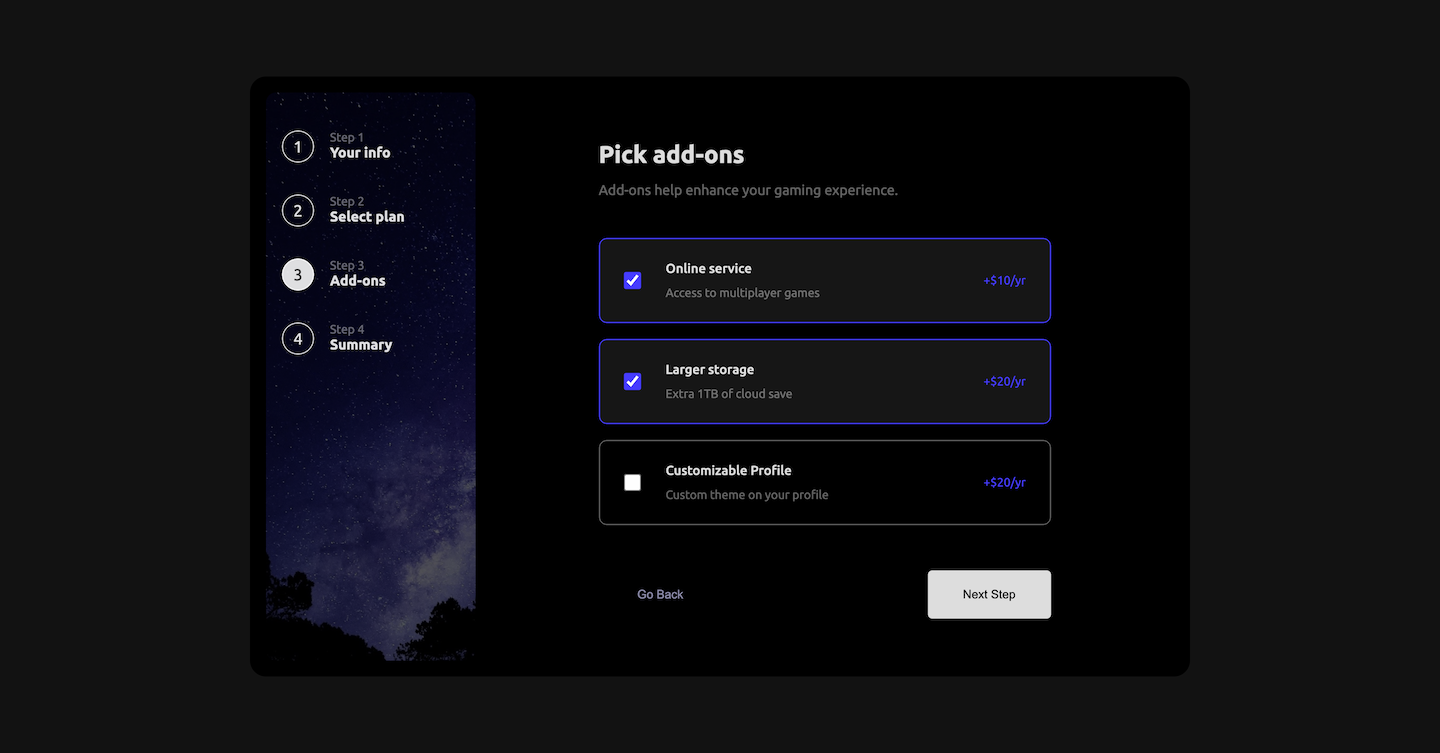
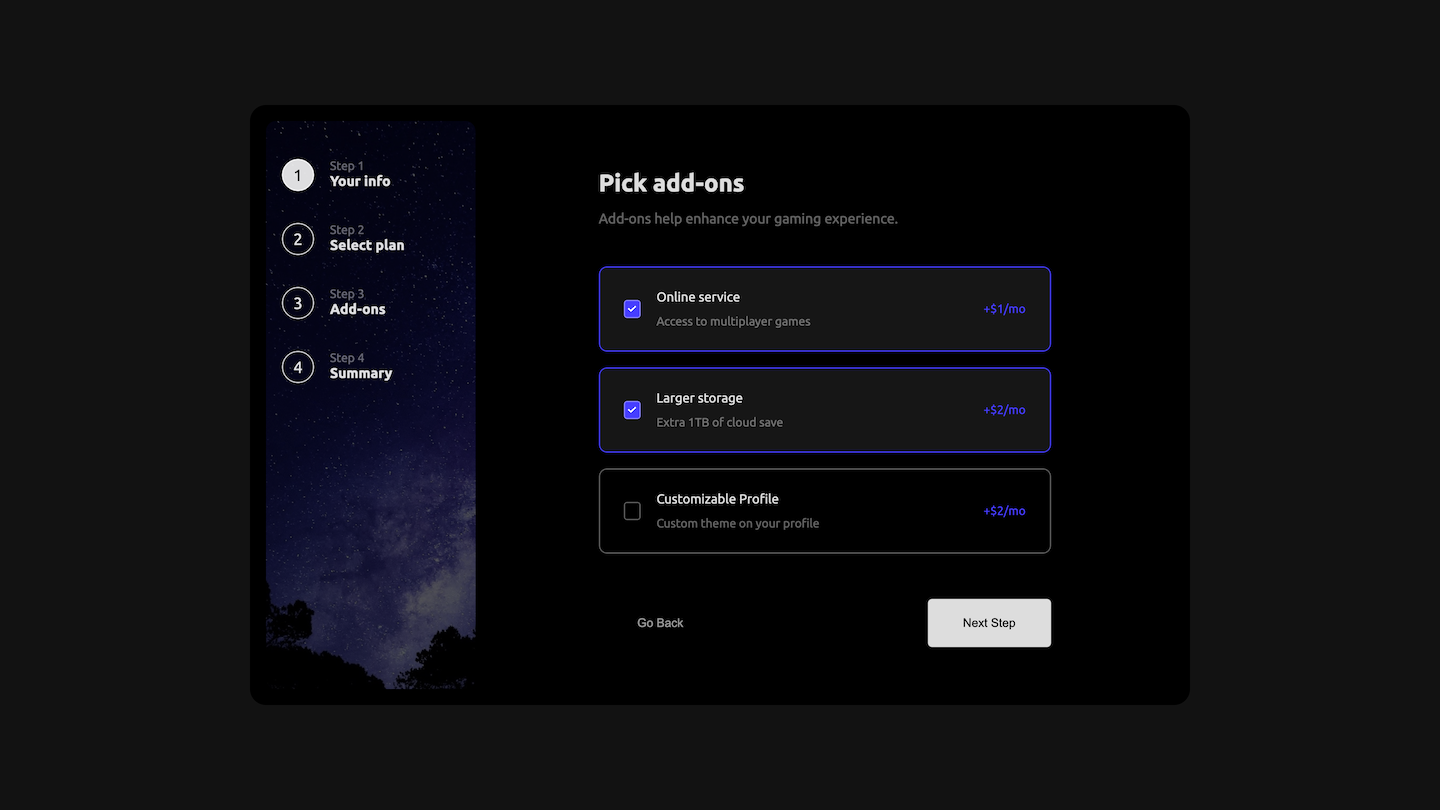
updated checkbox style
updated auto-completed text input box style

diff --git a/dist/style.css b/dist/style.css
@@ -1,1 +1,1 @@
-@import"https://fonts.googleapis.com/css2?family=Ubuntu:wght@400;500;700&display=swap";h2{font-size:1.125rem;color:var(--h2-color)}@media(min-width: 48rem){h2{font-size:1.5rem}}h3{font-size:0.875rem;font-weight:400;color:var(--h3-color)}h4{font-size:0.8125rem;font-weight:500;color:var(--h4-color)}p{font-size:0.75rem;color:var(--p-color)}.marineBlue{color:var(--marineblue-color)}.purplishBlue{color:var(--purplishblue-color)}.bold{font-weight:700}.medium{font-weight:500}.underline{text-decoration:underline}.underline:hover,.underline:focus{cursor:pointer;color:var(--underline-hover-color);transition-duration:.2s;transition-timing-function:linear}.offscreen{position:absolute;left:-10000px}html{box-sizing:border-box;font-size:100%}*,*::before,*::after{padding:0;margin:0;box-sizing:inherit}image{display:block;width:100%;height:auto}body{height:max(37.5rem,100vh);font:1rem "Ubuntu",sans-serif;background-color:var(--bgcolor);display:flex;flex-direction:column}@media(min-width: 48rem){body{align-items:center;justify-content:center}}button{width:6.0625rem;height:2.5rem;border:1px solid rgba(0,0,0,0);border-radius:0.25rem;color:var(--btn-color);font-size:0.75rem}@media(min-width: 48rem){button{width:7.6875rem;height:3rem}}button:hover,button:focus{transition-duration:.2s;transition-timing-function:linear;cursor:pointer}button[data-confirm]{background-color:var(--confirm-btn-bgcolor);justify-self:end}button[data-confirm]:hover,button[data-confirm]:focus{opacity:.7}button[data-previous]{background-color:rgba(0,0,0,0);color:var(--previous-btn-color)}button[data-previous]:hover,button[data-previous]:focus{color:var(--previous-btn-hover-color)}button[data-next]{background-color:var(--next-btn-bgcolor);grid-column:2/3;justify-self:end}button[data-next]:hover,button[data-next]:focus{background-color:var(--next-btn-hover-bgcolor)}fieldset{border:0}input[type=checkbox]{accent-color:var(--checkbox-accent-color);width:1.25rem;height:1.25rem}input[type=checkbox]:hover,[type=checkbox]:focus{cursor:pointer}hr{border:none;height:0.03125rem;background-color:var(--hr-bgcolor)}:root{--bgcolor: hsl(217, 100%, 97%);--btn-color: hsl(0, 0%, 100%);--previous-btn-color: hsl(231, 11%, 63%);--previous-btn-hover-color: hsl(213, 96%, 18%);--confirm-btn-bgcolor: hsl(243, 100%, 62%);--next-btn-bgcolor: hsl(213, 96%, 18%);--next-btn-hover-bgcolor: hsl(213, 96%, 28%);--checkbox-accent-color: hsl(243, 100%, 62%);--hr-bgcolor: hsl(229, 24%, 87%);--h2-color: hsl(213, 96%, 18%);--h3-color: hsl(231, 11%, 63%);--h4-color: hsl(213, 96%, 18%);--h5-color: hsl(213, 96%, 18%);--p-color: hsl(231, 11%, 63%);--input-bgcolor: hsl(0, 0%, 100%);--input-color: hsl(0, 0%, 0%);--placeholder-color: hsl(231, 11%, 63%);--underline-hover-color: hsl(243, 100%, 62%);--border-color: hsl(229, 24%, 87%);--input-border-color: hsl(229, 24%, 87%);--border-hover-color: hsl(243, 100%, 62%);--border-selected-color: hsl(243, 100%, 62%);--selected-bgcolor: hsla(243, 100%, 62%, 0.02);--sub-btn-bgcolor: hsl(213, 96%, 18%);--sub-btn-color: hsl(0, 0%, 100%);--sub-text-color: hsl(213, 96%, 18%);--sub-bgcolor: hsla(218, 10%, 77%, 0.1);--sum-bgcolor: hsla(218, 10%, 77%, 0.1);--aside-mask-color: hsla(0, 0%, 0%, 0);--aside-roundspan-color: hsl(0, 0%, 100%);--aside-roundspan-border-color: hsl(0, 0%, 100%);--aside-roundspan-highlight-color: hsl(0, 0%, 0%);--aside-roundspan-highlight-bg-color: hsl(206, 94%, 87%);--aside-h3-color: hsl(0, 0%, 100%);--main-bgcolor: hsl(0, 0%, 100%);--card-body-bgcolor: hsl(231, 100%, 99%);--card-boxshadow-color: hsla(0, 0%, 27%, 0.2);--card-bottom-bgcolor: hsl(0, 0%, 100%);--marineblue-color: hsl(213, 96%, 18%);--purplishblue-color: hsl(243, 100%, 62%);--aside-mobile-bg-image: url("../images/bg-sidebar-mobile.svg");--aside-desktop-bg-image: url("../images/bg-sidebar-desktop.svg")}@media(prefers-color-scheme: dark){:root{--bgcolor: #121212;--card-body-bgcolor: hsl(0, 0%, 0%);--card-bottom-bgcolor: hsl(0, 0%, 0%);--btn-color: hsl(0, 0%, 0%);--previous-btn-color: hsla(0, 0%, 100%, 0.6);--previous-btn-hover-color: hsl(243, 100%, 62%);--next-btn-bgcolor: hsla(0, 0%, 100%, 0.87);--next-btn-hover-bgcolor: hsl(243, 100%, 62%);--hr-bgcolor: hsla(0, 0%, 100%, 0.15);--h2-color: hsla(0, 0%, 100%, 0.87);--h3-color: hsla(0, 0%, 100%, 0.38);--h4-color: hsla(0, 0%, 100%, 0.87);--h5-color: hsla(0, 0%, 100%, 0.87);--p-color: hsla(0, 0%, 100%, 0.38);--border-color: hsla(0, 0%, 100%, 0.38);--input-border-color: hsla(229, 24%, 87%, 0);--input-bgcolor: hsla(218, 10%, 77%, 0.1);--input-color: hsla(0, 0%, 100%, 0.87);--placeholder-color: hsla(0, 0%, 100%, 0.38);--selected-bgcolor: #161616;--sub-btn-bgcolor: hsl(243, 100%, 62%);--sub-btn-color: hsla(0, 0%, 100%, 0.87);--sub-text-color: hsla(0, 0%, 100%, 0.87);--aside-mask-color: hsla(0, 0%, 0%, 0.66);--aside-roundspan-color: hsl(0, 0%, 100%, 0.87);--aside-roundspan-border-color: hsl(0, 0%, 100%, 0.87);--aside-roundspan-highlight-color: hsla(0, 0%, 0%, 0.87);--aside-roundspan-highlight-bg-color: hsla(0, 0%, 100%, 0.87);--aside-h3-color: hsla(0, 0%, 100%, 0.87);--main-bgcolor: hsl(0, 0%, 0%);--marineblue-color: hsla(0, 0%, 100%, 0.87);--aside-mobile-bg-image: url("../images/bg-sidebar-mobile-dark.jpg");--aside-desktop-bg-image: url("../images/bg-sidebar-desktop-dark.jpg")}}.aside{height:10.6875rem;background-image:var(--aside-mobile-bg-image);background-repeat:no-repeat;background-size:cover;background-position:center}@media(min-width: 48rem){.aside{border-radius:0.625rem;height:100%;width:30%;background-image:var(--aside-desktop-bg-image)}}.aside__body{height:100%;display:flex;justify-content:center;gap:1rem;padding-top:2rem;padding-bottom:6.625rem;background-color:var(--aside-mask-color)}@media(min-width: 48rem){.aside__body{flex-direction:column;gap:2rem;justify-content:flex-start;padding-top:2.375rem;padding-inline:1rem}}.aside__span{display:block;background-color:rgba(0,0,0,0);width:2rem;height:2rem;border:0.0625rem solid var(--aside-roundspan-border-color);color:var(--aside-roundspan-color);border-radius:50%;display:flex;justify-content:center;align-items:center}.aside__section{position:absolute;left:-625rem}@media(min-width: 48rem){.aside__section{position:static}}@media(min-width: 48rem){.aside__step{display:flex;gap:1rem}}.aside__h3{color:var(--aside-h3-color);font-weight:700}.highlight{background-color:var(--aside-roundspan-highlight-bg-color);color:var(--aside-roundspan-highlight-color)}.card{width:100%;height:100%;position:absolute;transform:translateX(0);opacity:0}@media(min-width: 48rem){.card{display:flex;flex-direction:column;justify-content:space-between;width:28.25rem;left:0;right:0;margin-inline:auto}}.card__body{width:clamp(18.25rem,100% - 1.5rem,28.125rem);position:absolute;top:6rem;left:0;right:0;margin-inline:auto;padding-top:2.25rem;padding-bottom:2rem;padding-inline:1.5rem;background-color:var(--card-body-bgcolor);border-radius:0.5rem;box-shadow:0 0.3125rem 0.625rem var(--card-boxshadow-color);display:flex;flex-direction:column;gap:1.5rem}@media(min-width: 48rem){.card__body{position:static;width:100%;background-color:rgba(0,0,0,0);box-shadow:none;padding:0;gap:1.625rem}}.card__bottom{width:100%;height:4.625rem;position:absolute;bottom:0;padding:1rem;background-color:var(--card-bottom-bgcolor);display:grid;grid-template-columns:1fr 1fr}@media(min-width: 48rem){.card__bottom{position:static;padding:0}}.card__legend{display:flex;flex-direction:column;gap:0.875rem}@media(min-width: 48rem){.card__legend{margin-bottom:0.875rem}}.card__total{display:flex;justify-content:space-between;align-items:center;padding-inline:0.75rem}@media(min-width: 48rem){.card__total{padding-inline:1.125rem}}.card__content{display:flex;flex-direction:column;gap:0.625rem}@media(min-width: 48rem){.card__content{gap:1.5rem}}.card.active{z-index:1;animation:blur 700ms linear forwards}@keyframes blur{0%{opacity:0}100%{opacity:1}}.content__choice{display:flex;flex-direction:column;gap:0.25rem}@media(min-width: 48rem){.content__choice{gap:0.75rem}}.content__input{border:0.0625rem solid var(--input-border-color);border-radius:0.25rem;padding:0.9375rem;background-color:var(--input-bgcolor);color:var(--input-color)}.content__input::-moz-placeholder{color:var(--placeholder-color)}.content__input::placeholder{color:var(--placeholder-color)}.content__label{display:flex;justify-content:space-between;font-size:0.625rem}@media(min-width: 48rem){.content__label{font-size:0.75rem}}.content__span{font-size:0.625rem;font-weight:400;color:var(--h5-color)}@media(min-width: 48rem){.content__span{font-size:0.75rem}}@media(min-width: 48rem){.plan{flex-direction:row;justify-content:space-between}}.plan__choice{border:0.0625rem solid var(--border-color);border-radius:0.5rem;padding:1rem;display:flex;flex-direction:row;gap:0.9375rem}@media(min-width: 48rem){.plan__choice{width:8.5rem;height:10rem;padding:1.25rem 1.125rem;flex-direction:column;justify-content:space-between}}.plan__choice:hover,.plan__choice:focus{cursor:pointer;border-color:var(--border-hover-color);transition-duration:.2s;transition-timing-function:linear}.plan__figcaption{display:flex;flex-direction:column;justify-content:center;gap:0.375rem}.selected{border-color:var(--border-selected-color);background-color:var(--selected-bgcolor)}.subscription{background-color:var(--sub-bgcolor);padding-block:0.8125rem;padding-inline:3.25rem;border-radius:0.5rem;display:flex;justify-content:space-between;align-items:center}@media(min-width: 48rem){.subscription{justify-content:center;gap:1.5rem}}.subscription__button{width:2.375rem;height:1.25rem;padding-inline:0.25rem;border-radius:0.9375rem;background-color:var(--sub-btn-bgcolor);display:flex;align-items:center;justify-content:flex-end}.subscription__span{display:block;background-color:var(--sub-btn-color);border-radius:50%;width:0.75rem;height:0.75rem}.subscription__span:hover,.subscription__span:focus{cursor:pointer;transform:scale(1.2) translateX(0.0625rem);transition-duration:.2s;transition-timing-function:linear}.subscribed{color:var(--sub-text-color)}.moved{justify-content:flex-start}@media(min-width: 48rem){.addon{gap:1rem}}.addon__item{border:0.0625rem solid var(--border-color);border-radius:0.5rem;padding:1rem;display:flex;flex-direction:row;align-items:center;gap:0.9375rem}@media(min-width: 48rem){.addon__item{padding:1.375rem 1.5rem;gap:1.5rem}}.addon__item:hover,.addon__item:focus,.addon__label:hover,.addon__label:focus{cursor:pointer;border-color:var(--border-hover-color);transition-duration:.2s;transition-timing-function:linear}.addon__label{width:100%;display:flex;justify-content:space-between;align-items:center}.addon__wrapper{display:flex;flex-direction:column}@media(min-width: 48rem){.addon__wrapper{gap:0.625rem}}.picked{border-color:var(--border-selected-color);background-color:var(--selected-bgcolor)}.main{height:inherit}@media(min-width: 48rem){.main{width:min(100% - 1rem,58.75rem);height:37.5rem;background-color:var(--main-bgcolor);border-radius:1rem;display:flex;padding:1rem}}.main__section{position:absolute;bottom:0;width:100%;height:100%}@media(min-width: 48rem){.main__section{position:static;padding-top:3rem;padding-bottom:1rem}}.main__form{height:inherit;position:relative;overflow:hidden}.summary{background-color:var(--sum-bgcolor);border-radius:0.5rem;padding-inline:0.9375rem;padding-block:1.25rem;display:flex;flex-direction:column;gap:0.875rem}@media(min-width: 48rem){.summary{padding:1.375rem 1.5rem;gap:1.5rem}}.summary__plan{display:flex;align-items:center;justify-content:space-between}.summary__plan__info{display:flex;flex-direction:column;gap:0.5rem}.summary__addons{display:flex;flex-direction:column;gap:1.25rem;font-size:0.75rem}.summary__addons__item{display:flex;justify-content:space-between;align-items:center}@media(min-width: 48rem){#total{font-size:1.125rem}}.thanksPage{align-items:center;text-align:center;padding-block:5rem;gap:0}@media(min-width: 48rem){.thanksPage{width:26.875rem;height:100%;justify-content:center}}.thanksPage__image{width:2.5rem}@media(min-width: 48rem){.thanksPage__image{width:5rem}}.thanksPage__h2{padding-block:1.625rem 1.125rem}@media(min-width: 48rem){.thanksPage__h2{line-height:1.625rem;padding-block:2rem 1.25rem}}.thanksPage__p{line-height:1.5rem;font-size:0.875rem}/*# sourceMappingURL=style.css.map */
+@import"https://fonts.googleapis.com/css2?family=Ubuntu:wght@400;500;700&display=swap";h2{font-size:1.125rem;color:var(--h2-color)}@media(min-width: 48rem){h2{font-size:1.5rem}}h3{font-size:0.875rem;font-weight:400;color:var(--h3-color)}h4{font-size:0.8125rem;font-weight:500;color:var(--h4-color)}p{font-size:0.75rem;color:var(--p-color)}.marineBlue{color:var(--marineblue-color)}.purplishBlue{color:var(--purplishblue-color)}.bold{font-weight:700}.medium{font-weight:500}.underline{text-decoration:underline}.underline:hover,.underline:focus{cursor:pointer;color:var(--underline-hover-color);transition-duration:.2s;transition-timing-function:linear}.offscreen{position:absolute;left:-10000px}html{box-sizing:border-box;font-size:100%}*,*::before,*::after{padding:0;margin:0;box-sizing:inherit}image{display:block;width:100%;height:auto}body{height:max(37.5rem,100vh);font:1rem "Ubuntu",sans-serif;background-color:var(--bgcolor);display:flex;flex-direction:column}@media(min-width: 48rem){body{align-items:center;justify-content:center}}button{width:6.0625rem;height:2.5rem;border:1px solid rgba(0,0,0,0);border-radius:0.25rem;color:var(--btn-color);font-size:0.75rem}@media(min-width: 48rem){button{width:7.6875rem;height:3rem}}button:hover,button:focus{transition-duration:.2s;transition-timing-function:linear;cursor:pointer}button[data-confirm]{background-color:var(--confirm-btn-bgcolor);justify-self:end}button[data-confirm]:hover,button[data-confirm]:focus{opacity:.7}button[data-previous]{background-color:rgba(0,0,0,0);color:var(--previous-btn-color)}button[data-previous]:hover,button[data-previous]:focus{color:var(--previous-btn-hover-color)}button[data-next]{background-color:var(--next-btn-bgcolor);grid-column:2/3;justify-self:end}button[data-next]:hover,button[data-next]:focus{background-color:var(--next-btn-hover-bgcolor)}fieldset{border:0}hr{border:none;height:0.03125rem;background-color:var(--hr-bgcolor)}:root{--bgcolor: hsl(217, 100%, 97%);--btn-color: hsl(0, 0%, 100%);--previous-btn-color: hsl(231, 11%, 63%);--previous-btn-hover-color: hsl(213, 96%, 18%);--confirm-btn-bgcolor: hsl(243, 100%, 62%);--next-btn-bgcolor: hsl(213, 96%, 18%);--next-btn-hover-bgcolor: hsl(213, 96%, 28%);--checkbox-bgcolor: hsla(243, 100%, 62%, 0);--checkbox-checked-bgcolor: hsl(243, 100%, 62%);--hr-bgcolor: hsl(229, 24%, 87%);--h2-color: hsl(213, 96%, 18%);--h3-color: hsl(231, 11%, 63%);--h4-color: hsl(213, 96%, 18%);--h5-color: hsl(213, 96%, 18%);--p-color: hsl(231, 11%, 63%);--input-bgcolor: hsl(0, 0%, 100%);--input-color: hsl(0, 0%, 0%);--placeholder-color: hsl(231, 11%, 63%);--underline-hover-color: hsl(243, 100%, 62%);--border-color: hsl(229, 24%, 87%);--input-border-color: hsl(229, 24%, 87%);--border-hover-color: hsl(243, 100%, 62%);--border-selected-color: hsl(243, 100%, 62%);--selected-bgcolor: hsla(243, 100%, 62%, 0.02);--sub-btn-bgcolor: hsl(213, 96%, 18%);--sub-btn-color: hsl(0, 0%, 100%);--sub-text-color: hsl(213, 96%, 18%);--sub-bgcolor: hsla(218, 10%, 77%, 0.1);--sum-bgcolor: hsla(218, 10%, 77%, 0.1);--aside-mask-color: hsla(0, 0%, 0%, 0);--aside-roundspan-color: hsl(0, 0%, 100%);--aside-roundspan-border-color: hsl(0, 0%, 100%);--aside-roundspan-highlight-color: hsl(0, 0%, 0%);--aside-roundspan-highlight-bg-color: hsl(206, 94%, 87%);--aside-h3-color: hsl(0, 0%, 100%);--main-bgcolor: hsl(0, 0%, 100%);--card-body-bgcolor: hsl(231, 100%, 99%);--card-boxshadow-color: hsla(0, 0%, 27%, 0.2);--card-bottom-bgcolor: hsl(0, 0%, 100%);--marineblue-color: hsl(213, 96%, 18%);--purplishblue-color: hsl(243, 100%, 62%);--auto-completed-text-color: hsl(222, 100%, 7%);--auto-completed-box-shadow-color: hsl(0, 0%, 100%, 0.87);--aside-mobile-bg-image: url("../images/bg-sidebar-mobile.svg");--aside-desktop-bg-image: url("../images/bg-sidebar-desktop.svg");--checkbox-gb-image: url("../images/icon-checkmark.svg")}@media(prefers-color-scheme: dark){:root{--bgcolor: #121212;--card-body-bgcolor: hsl(0, 0%, 0%);--card-bottom-bgcolor: hsl(0, 0%, 0%);--btn-color: hsl(0, 0%, 0%);--previous-btn-color: hsla(0, 0%, 100%, 0.6);--previous-btn-hover-color: hsl(243, 100%, 62%);--next-btn-bgcolor: hsla(0, 0%, 100%, 0.87);--next-btn-hover-bgcolor: hsl(243, 100%, 62%);--hr-bgcolor: hsla(0, 0%, 100%, 0.15);--h2-color: hsla(0, 0%, 100%, 0.87);--h3-color: hsla(0, 0%, 100%, 0.38);--h4-color: hsla(0, 0%, 100%, 0.87);--h5-color: hsla(0, 0%, 100%, 0.87);--p-color: hsla(0, 0%, 100%, 0.38);--border-color: hsla(0, 0%, 100%, 0.38);--input-border-color: hsla(229, 24%, 87%, 0);--input-bgcolor: hsla(218, 10%, 77%, 0.1);--input-color: hsla(0, 0%, 100%, 0.87);--placeholder-color: hsla(0, 0%, 100%, 0.38);--selected-bgcolor: #161616;--sub-btn-bgcolor: hsl(243, 100%, 62%);--sub-btn-color: hsla(0, 0%, 100%, 0.87);--sub-text-color: hsla(0, 0%, 100%, 0.87);--aside-mask-color: hsla(0, 0%, 0%, 0.66);--aside-roundspan-color: hsl(0, 0%, 100%, 0.87);--aside-roundspan-border-color: hsl(0, 0%, 100%, 0.87);--aside-roundspan-highlight-color: hsla(0, 0%, 0%, 0.87);--aside-roundspan-highlight-bg-color: hsla(0, 0%, 100%, 0.87);--aside-h3-color: hsla(0, 0%, 100%, 0.87);--main-bgcolor: hsl(0, 0%, 0%);--marineblue-color: hsla(0, 0%, 100%, 0.87);--auto-completed-text-color: hsl(0, 0%, 100%, 0.87);--auto-completed-box-shadow-color: hsl(222, 100%, 7%);--aside-mobile-bg-image: url("../images/bg-sidebar-mobile-dark.jpg");--aside-desktop-bg-image: url("../images/bg-sidebar-desktop-dark.jpg")}}.aside{height:10.6875rem;background-image:var(--aside-mobile-bg-image);background-repeat:no-repeat;background-size:cover;background-position:center}@media(min-width: 48rem){.aside{border-radius:0.625rem;height:100%;width:30%;background-image:var(--aside-desktop-bg-image)}}.aside__body{height:100%;display:flex;justify-content:center;gap:1rem;padding-top:2rem;padding-bottom:6.625rem;background-color:var(--aside-mask-color)}@media(min-width: 48rem){.aside__body{flex-direction:column;gap:2rem;justify-content:flex-start;padding-top:2.375rem;padding-inline:1rem}}.aside__span{display:block;background-color:rgba(0,0,0,0);width:2rem;height:2rem;border:0.0625rem solid var(--aside-roundspan-border-color);color:var(--aside-roundspan-color);border-radius:50%;display:flex;justify-content:center;align-items:center}.aside__section{position:absolute;left:-625rem}@media(min-width: 48rem){.aside__section{position:static}}@media(min-width: 48rem){.aside__step{display:flex;gap:1rem}}.aside__h3{color:var(--aside-h3-color);font-weight:700}.highlight{background-color:var(--aside-roundspan-highlight-bg-color);color:var(--aside-roundspan-highlight-color)}.card{width:100%;height:100%;position:absolute;transform:translateX(0);opacity:0}@media(min-width: 48rem){.card{display:flex;flex-direction:column;justify-content:space-between;width:28.25rem;left:0;right:0;margin-inline:auto}}.card__body{width:clamp(18.25rem,100% - 1.5rem,28.125rem);position:absolute;top:6rem;left:0;right:0;margin-inline:auto;padding-top:2.25rem;padding-bottom:2rem;padding-inline:1.5rem;background-color:var(--card-body-bgcolor);border-radius:0.5rem;box-shadow:0 0.3125rem 0.625rem var(--card-boxshadow-color);display:flex;flex-direction:column;gap:1.5rem}@media(min-width: 48rem){.card__body{position:static;width:100%;background-color:rgba(0,0,0,0);box-shadow:none;padding:0;gap:1.625rem}}.card__bottom{width:100%;height:4.625rem;position:absolute;bottom:0;padding:1rem;background-color:var(--card-bottom-bgcolor);display:grid;grid-template-columns:1fr 1fr}@media(min-width: 48rem){.card__bottom{position:static;padding:0}}.card__legend{display:flex;flex-direction:column;gap:0.875rem}@media(min-width: 48rem){.card__legend{margin-bottom:0.875rem}}.card__total{display:flex;justify-content:space-between;align-items:center;padding-inline:0.75rem}@media(min-width: 48rem){.card__total{padding-inline:1.125rem}}.card__content{display:flex;flex-direction:column;gap:0.625rem}@media(min-width: 48rem){.card__content{gap:1.5rem}}.card.active{z-index:1;animation:blur 700ms linear forwards}@keyframes blur{0%{opacity:0}100%{opacity:1}}.content__choice{display:flex;flex-direction:column;gap:0.25rem}@media(min-width: 48rem){.content__choice{gap:0.75rem}}.content__input{border:0.0625rem solid var(--input-border-color);border-radius:0.25rem;padding:0.9375rem;background-color:var(--input-bgcolor);color:var(--input-color);caret-color:var(--purplishblue-color);outline:none}.content input:focus{box-shadow:0 0 8px 0 var(--purplishblue-color);transition-duration:.1s;transition-timing-function:linear}.content input:-webkit-autofill,.content input:-webkit-autofill:hover,.content input:-webkit-autofill:focus,.content input:-webkit-autofill:active{-webkit-box-shadow:0 0 0 1.875rem var(--auto-completed-box-shadow-color) inset;-webkit-text-fill-color:var(--auto-completed-text-color)}.content__input::-moz-placeholder{color:var(--placeholder-color)}.content__input::placeholder{color:var(--placeholder-color)}.content__label{display:flex;justify-content:space-between;font-size:0.625rem}@media(min-width: 48rem){.content__label{font-size:0.75rem}}.content__span{font-size:0.625rem;font-weight:400;color:var(--h5-color)}@media(min-width: 48rem){.content__span{font-size:0.75rem}}@media(min-width: 48rem){.plan{flex-direction:row;justify-content:space-between}}.plan__choice{border:0.0625rem solid var(--border-color);border-radius:0.5rem;padding:1rem;display:flex;flex-direction:row;gap:0.9375rem}@media(min-width: 48rem){.plan__choice{width:8.5rem;height:10rem;padding:1.25rem 1.125rem;flex-direction:column;justify-content:space-between}}.plan__choice:hover,.plan__choice:focus{cursor:pointer;border-color:var(--border-hover-color);transition-duration:.2s;transition-timing-function:linear}.plan__figcaption{display:flex;flex-direction:column;justify-content:center;gap:0.375rem}.selected{border-color:var(--border-selected-color);background-color:var(--selected-bgcolor)}.subscription{background-color:var(--sub-bgcolor);padding-block:0.8125rem;padding-inline:3.25rem;border-radius:0.5rem;display:flex;justify-content:space-between;align-items:center}@media(min-width: 48rem){.subscription{justify-content:center;gap:1.5rem}}.subscription__button{width:2.375rem;height:1.25rem;padding-inline:0.25rem;border-radius:0.9375rem;background-color:var(--sub-btn-bgcolor);display:flex;align-items:center;justify-content:flex-end}.subscription__span{display:block;background-color:var(--sub-btn-color);border-radius:50%;width:0.75rem;height:0.75rem}.subscription__span:hover,.subscription__span:focus{cursor:pointer;transform:scale(1.2) translateX(0.0625rem);transition-duration:.2s;transition-timing-function:linear}.subscribed{color:var(--sub-text-color)}.moved{justify-content:flex-start}@media(min-width: 48rem){.addon{gap:1rem}}.addon__item{border:0.0625rem solid var(--border-color);border-radius:0.5rem;padding:1rem;display:flex;flex-direction:row;align-items:center;gap:0.9375rem}@media(min-width: 48rem){.addon__item{padding:1.375rem 1.5rem;gap:1.5rem}}.addon__item:hover,.addon__item:focus,.addon__label:hover,.addon__label:focus{cursor:pointer;border-color:var(--border-hover-color);transition-duration:.2s;transition-timing-function:linear}.addon__label{width:100%;display:flex;justify-content:space-between;align-items:center;gap:1rem}.addon__newInput{display:block;width:1.125rem;height:1.125rem;border:0.0625rem solid var(--border-color);border-radius:0.1875rem;background-color:var(--checkbox-bgcolor)}input[type=checkbox]:checked~.addon__newInput{background-color:var(--checkbox-checked-bgcolor);background-image:var(--checkbox-gb-image);background-repeat:no-repeat;background-position:center;background-size:60%}.addon__content{width:100%;display:flex;justify-content:space-between;align-items:center}.addon__wrapper{display:flex;flex-direction:column;gap:0.5rem}@media(min-width: 48rem){.addon__wrapper{gap:0.625rem}}.addon__name{display:block;color:var(--h4-color);font-size:0.8125rem}.addon__info{display:block;color:var(--p-color);font-size:0.75rem}.addon__price{display:block;font-size:0.75rem}.picked{border-color:var(--border-selected-color);background-color:var(--selected-bgcolor)}.main{height:inherit}@media(min-width: 48rem){.main{width:min(100% - 1rem,58.75rem);height:37.5rem;background-color:var(--main-bgcolor);border-radius:1rem;display:flex;padding:1rem}}.main__section{position:absolute;bottom:0;width:100%;height:100%}@media(min-width: 48rem){.main__section{position:static;padding-top:3rem;padding-bottom:1rem}}.main__form{height:inherit;position:relative;overflow:hidden}.summary{background-color:var(--sum-bgcolor);border-radius:0.5rem;padding-inline:0.9375rem;padding-block:1.25rem;display:flex;flex-direction:column;gap:0.875rem}@media(min-width: 48rem){.summary{padding:1.375rem 1.5rem;gap:1.5rem}}.summary__plan{display:flex;align-items:center;justify-content:space-between}.summary__plan__info{display:flex;flex-direction:column;gap:0.5rem}.summary__addons{display:flex;flex-direction:column;gap:1.25rem;font-size:0.75rem}.summary__addons__item{display:flex;justify-content:space-between;align-items:center}@media(min-width: 48rem){#total{font-size:1.125rem}}.thanksPage{align-items:center;text-align:center;padding-block:5rem;gap:0}@media(min-width: 48rem){.thanksPage{width:26.875rem;height:100%;justify-content:center}}.thanksPage__image{width:2.5rem}@media(min-width: 48rem){.thanksPage__image{width:5rem}}.thanksPage__h2{padding-block:1.625rem 1.125rem}@media(min-width: 48rem){.thanksPage__h2{line-height:1.625rem;padding-block:2rem 1.25rem}}.thanksPage__p{line-height:1.5rem;font-size:0.875rem}/*# sourceMappingURL=style.css.map */

diff --git a/index.html b/index.html
@@ -93,7 +93,7 @@
             <button class="button" type="button" data-next>Next Step</button>
           </div>
         </fieldset>
-        <fieldset class="card " data-step>
+        <fieldset class="card" data-step>
           <div class="card__body">
             <legend class="card__legend">
               <h2>Select your plan</h2>
@@ -141,33 +141,42 @@
             </legend>
             <div class="card__content addon">
               <div class="addon__item picked">
-                <input class="addon__input" type="checkbox" id="onlineService" name="onlineService" checked>
                 <label class="addon__label" for="onlineService">
-                  <div class="addon__wrapper">
-                    <h4 class="addon__h4">Online service</h4>
-                    <p class="addon__p">Access to multiplayer games</p>
-                  </div>
-                  <p class="addon__p purplishBlue" data-addon-price>+$1/mo</p>
+                  <input class="addon__input offscreen" type="checkbox" id="onlineService" name="onlineService" checked>
+                  <span class="addon__newInput"></span>
+                  <span class="addon__content">
+                    <span class="addon__wrapper">
+                      <span class="addon__name">Online service</span>
+                      <span class="addon__info">Access to multiplayer games</span>
+                    </span>
+                    <span class="addon__price purplishBlue" data-addon-price>+$1/mo</span>
+                  </span>
                 </label>
               </div>
               <div class="addon__item picked">
-                <input class="addon__input" type="checkbox" id="largeStorage" name="largeStorage" checked>
                 <label class="addon__label" for="largeStorage">
-                  <div class="addon__wrapper">
-                    <h4 class="addon__h4">Larger storage</h4>
-                    <p class="addon__p">Extra 1TB of cloud save</p>
-                  </div>
-                  <p class="addon__p purplishBlue" data-addon-price>+$2/mo</p>
+                  <input class="addon__input offscreen" type="checkbox" id="largeStorage" name="largeStorage" checked>
+                  <span class="addon__newInput"></span>
+                  <span class="addon__content">
+                    <span class="addon__wrapper">
+                      <span class="addon__name">Larger storage</span>
+                      <span class="addon__info">Extra 1TB of cloud save</span>
+                    </span>
+                    <span class="addon__price purplishBlue" data-addon-price>+$2/mo</span>
+                  </span>
                 </label>
               </div>
               <div class="addon__item">
-                <input class="addon__input" type="checkbox" id="customizableProfile" name="customizableProfile">
                 <label class="addon__label" for="customizableProfile">
-                  <div class="addon__wrapper">
-                    <h4 class="addon__h4">Customizable Profile</h4>
-                    <p class="addon__p">Custom theme on your profile</p>
-                  </div>
-                  <p class="addon__p purplishBlue" data-addon-price>+$2/mo</p>
+                  <input class="addon__input offscreen" type="checkbox" id="customizableProfile" name="customizableProfile">
+                  <span class="addon__newInput"></span>
+                  <span class="addon__content">
+                    <span class="addon__wrapper">
+                      <span class="addon__name">Customizable Profile</span>
+                      <span class="addon__info">Custom theme on your profile</span>
+                    </span>
+                    <span class="addon__price purplishBlue" data-addon-price>+$2/mo</span>
+                  </span>
                 </label>
               </div>
             </div>

diff --git a/scss/globals/_colors.scss b/scss/globals/_colors.scss
@@ -6,7 +6,8 @@
     --confirm-btn-bgcolor: hsl(243, 100%, 62%);
     --next-btn-bgcolor: hsl(213, 96%, 18%);
     --next-btn-hover-bgcolor: hsl(213, 96%, 28%);
-    --checkbox-accent-color: hsl(243, 100%, 62%);
+    --checkbox-bgcolor: hsla(243, 100%, 62%, 0);
+    --checkbox-checked-bgcolor: hsl(243, 100%, 62%);
     --hr-bgcolor: hsl(229, 24%, 87%);
     --h2-color: hsl(213, 96%, 18%);
     --h3-color: hsl(231, 11%, 63%);
@@ -39,9 +40,12 @@
     --card-bottom-bgcolor: hsl(0, 0%, 100%);
     --marineblue-color: hsl(213, 96%, 18%);
     --purplishblue-color: hsl(243, 100%, 62%);
+    --auto-completed-text-color: hsl(222, 100%, 7%);
+    --auto-completed-box-shadow-color: hsl(0, 0%, 100%, 0.87);
 
     --aside-mobile-bg-image: url("../images/bg-sidebar-mobile.svg");
     --aside-desktop-bg-image: url("../images/bg-sidebar-desktop.svg");
+    --checkbox-gb-image: url("../images/icon-checkmark.svg");
 }
 
 @media (prefers-color-scheme: dark) {
@@ -77,6 +81,8 @@
         --aside-h3-color: hsla(0, 0%, 100%, 0.87);
         --main-bgcolor: hsl(0, 0%, 0%);
         --marineblue-color: hsla(0, 0%, 100%, 0.87);
+        --auto-completed-text-color: hsl(0, 0%, 100%, 0.87);
+        --auto-completed-box-shadow-color: hsl(222, 100%, 7%);
 
         --aside-mobile-bg-image: url("../images/bg-sidebar-mobile-dark.jpg");
         --aside-desktop-bg-image: url("../images/bg-sidebar-desktop-dark.jpg");

diff --git a/scss/components/_addon.scss b/scss/components/_addon.scss
@@ -32,15 +32,58 @@
         display: flex;
         justify-content: space-between;
         align-items: center;
+        gap: u.rem(16);
+    }
+
+    &__newInput {
+        display: block;
+        width: u.rem(18);
+        height: u.rem(18);
+        border: u.rem(1) solid var(--border-color);
+        border-radius: u.rem(3);
+        background-color: var(--checkbox-bgcolor);
+    }
+
+    input[type=checkbox]:checked ~ &__newInput {
+        background-color: var(--checkbox-checked-bgcolor);
+        background-image: var(--checkbox-gb-image);
+        background-repeat: no-repeat;
+        background-position: center;
+        background-size: 60%;
+    }
+
+    &__content {
+        width: 100%;
+        display: flex;
+        justify-content: space-between;
+        align-items: center;
     }
 
     &__wrapper {
         display: flex;
         flex-direction: column;
+        gap: u.rem(8);
 
         @include u.breakpoint(medium) {
             gap: u.rem(10);
         }
+    }
+
+    &__name {
+        display: block;
+        color: var(--h4-color);
+        font-size: u.rem(13);
+    }
+
+    &__info {
+        display: block;
+        color: var(--p-color);
+        font-size: u.rem(12);
+    }
+
+    &__price {
+        display: block;
+        font-size: u.rem(12);
     }
 }
 

diff --git a/scss/components/_content.scss b/scss/components/_content.scss
@@ -17,6 +17,22 @@
         padding: u.rem(15);
         background-color: var(--input-bgcolor);
         color: var(--input-color);
+        caret-color: var(--purplishblue-color);
+        outline: none;
+    }
+
+    input:focus {
+        box-shadow: 0 0 8px 0 var(--purplishblue-color);
+        transition-duration: 0.1s;
+        transition-timing-function: linear;
+    }
+
+    input:-webkit-autofill,
+    input:-webkit-autofill:hover, 
+    input:-webkit-autofill:focus, 
+    input:-webkit-autofill:active{
+        -webkit-box-shadow: 0 0 0 u.rem(30) var(--auto-completed-box-shadow-color) inset;
+        -webkit-text-fill-color: var(--auto-completed-text-color);
     }
 
     &__input::placeholder {

diff --git a/scss/globals/_boilerplate.scss b/scss/globals/_boilerplate.scss
@@ -84,15 +84,15 @@ fieldset {
     border: 0;
 }
 
-input[type=checkbox] {
-    accent-color: var(--checkbox-accent-color);
-    width: u.rem(20);
-    height: u.rem(20);
-}
+// input[type=checkbox] {
+//     accent-color: var(--checkbox-accent-color);
+//     width: u.rem(20);
+//     height: u.rem(20);
+// }
 
-input[type=checkbox]:hover,[type=checkbox]:focus {
-    cursor: pointer;
-}
+// input[type=checkbox]:hover,[type=checkbox]:focus {
+//     cursor: pointer;
+// }
 
 hr {
     border: none;

diff --git a/README.md b/README.md
@@ -247,17 +247,65 @@ button[data-next] {
 }
 ```
 
-- Note: 
-Element.querySelector() returns an element.
-Element.querySelectorAll() returns a static (not live) NodeList.
-Element.getElementsByTagName() returns a live HTMLCollection.
+16. caret-color: set the color used to draw the text input caret. outline:none - remove the outline when input box is selected.
+```scss
+&__input {
+  caret-color: var(--purplishblue-color);
+  outline: none;
+}
+```
 
-Element "h5" not allowed as child of element "label" in this context
+17. How to change the input box style when it is auto-completed?
+```scss
+input:-webkit-autofill,
+input:-webkit-autofill:hover, 
+input:-webkit-autofill:focus, 
+input:-webkit-autofill:active{
+    -webkit-box-shadow: 0 0 0 u.rem(30) var(--auto-completed-box-shadow-color) inset;
+    -webkit-text-fill-color: var(--auto-completed-text-color);
+}
+```
+
+18. How to style a checkbox using CSS?  
+Wrap the checkbox in a label element, hide it, and add a new element after the checkbox.
+```html
+<label class="addon__label" for="onlineService">
+  <input class="addon__input offscreen" type="checkbox" id="onlineService" name="onlineService" checked>
+  <span class="addon__newInput"></span>
+  <span class="addon__content">
+    <span class="addon__wrapper">
+      <span class="addon__name">Online service</span>
+      <span class="addon__info">Access to multiplayer games</span>
+    </span>
+    <span class="addon__price purplishBlue" data-addon-price>+$1/mo</span>
+  </span>
+</label>
+```
+```scss
+&__newInput {
+  display: block;
+  width: u.rem(18);
+  height: u.rem(18);
+  border: u.rem(1) solid var(--border-color);
+  border-radius: u.rem(3);
+  background-color: var(--checkbox-bgcolor);
+}
+
+input[type=checkbox]:checked ~ &__newInput {
+  background-color: var(--checkbox-checked-bgcolor);
+  background-image: var(--checkbox-gb-image);
+  background-repeat: no-repeat;
+  background-position: center;
+  background-size: 60%;
+}
+```
+
+19.  Note: 
+- Element.querySelector() returns an element.
+- Element.querySelectorAll() returns a static (not live) NodeList.
+- Element.getElementsByTagName() returns a live HTMLCollection.
 
 ### Continued development
-
-- Update checkbox style
-- Update input fill-in background
 
 ### Useful resources
 
